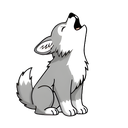
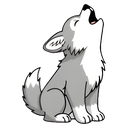
Pasha's cut-out cleaned; a Siberian aurora (painted in build/sky.py) behind him on the wallpaper and boot screen
Claude-Session: https://claude.ai/code/session_011dUntRk9LS7esAHpf3oNhr

Changed region(s): [[0.125, 0.0312, 0.8438, 0.9688]]

diff --git a/build/sky.py b/build/sky.py
@@ -1,0 +1,147 @@
+"""Iskra's night sky: a Siberian aurora over mountains, taiga and a still lake, painted from
+noise (no source image), at any size. Used by make-branding.py (wallpaper) and
+make-grub-theme.py (boot screen).   sky(2880, 1920) -> PIL RGB image;  ground_y(w, h) -> y
+"""
+import numpy as np
+from PIL import Image, ImageFilter
+
+
+def _noise1d(n, scale, rnd, octaves=5):
+    """Smooth 1-D fractal noise of length n, roughly in -1..1."""
+    out = np.zeros(n)
+    amp, total = 1.0, 0.0
+    for o in range(octaves):
+        k = max(2, int(n / scale * 2 ** o) + 2)
+        pts = rnd.uniform(-1, 1, k)
+        out += amp * np.interp(np.linspace(0, k - 1, n), np.arange(k), pts)
+        total += amp
+        amp *= 0.5
+    return out / total
+
+
+def _blur(a, r):
+    img = Image.fromarray(np.clip(a * 255, 0, 255).astype('uint8'))
+    return np.asarray(img.filter(ImageFilter.GaussianBlur(r))).astype(float) / 255
+
+
+def horizon(h):
+    return int(h * 0.74)
+
+
+def ground_y(w, h):
+    """Where the meadow is, for standing things on."""
+    return int(h * 0.90)
+
+
+def sky(w=2880, h=1920, seed=1999):
+    rnd = np.random.default_rng(seed)
+    hz = horizon(h)
+    y = np.linspace(0, 1, h)[:, None]
+    x = np.linspace(0, 1, w)[None, :]
+
+    # the sky: deep night blue at the top, violet low down
+    top, mid, low = np.array([6, 8, 24]), np.array([22, 18, 58]), np.array([70, 40, 110])
+    t = np.clip(y / (hz / h), 0, 1)
+    col = top * (1 - t) ** 2 + mid * 2 * t * (1 - t) + low * t ** 2
+    img = np.broadcast_to(col[:, None, :] if col.ndim == 2 else col, (h, w, 3)).astype(float).copy()
+    img = img.reshape(h, w, 3) if img.shape != (h, w, 3) else img
+
+    # stars, a few bright ones with a soft glow
+    stars = np.zeros((h, w))
+    n = int(w * h / 1400)
+    sx, sy = rnd.integers(0, w, n), rnd.integers(0, hz, n)
+    stars[sy, sx] = rnd.uniform(0.25, 1.0, n) ** 2
+    big = rnd.choice(n, n // 40, replace=False)
+    glow = np.zeros((h, w)); glow[sy[big], sx[big]] = 1.0
+    stars = np.clip(stars + _blur(glow, 3) * 6, 0, 1) * (1 - y * 0.6)
+    img += stars[..., None] * np.array([235, 235, 255])
+
+    # the aurora: a great curtain sweeping down from the top across to the right, a fainter one
+    # low on the left; bright green at its lower edge, fading to violet at the top, in fine rays
+    aur_g, aur_p = np.zeros((h, w)), np.zeros((h, w))
+    xs = np.arange(w)
+    rows = np.arange(h)[:, None]
+    for (x0, y0, x1, y1, height, bright, sc) in ((0.18, -0.05, 1.05, 0.60, 0.42, 1.25, 1.0),
+                                                 (-0.05, 0.50, 0.40, 0.36, 0.20, 0.55, 0.6)):
+        u = np.clip((xs / w - x0) / (x1 - x0), 0, 1)
+        edge = (y0 + (y1 - y0) * (u ** 0.8)) * h                # the lower edge, a falling diagonal
+        edge += (0.035 * np.sin(u * 19 + sc) + 0.02 * _noise1d(w, w / 6, rnd)) * h   # folds
+        inside = ((xs / w) > x0) & ((xs / w) < x1)
+        taper = np.sin(np.clip(u, 0, 1) * np.pi) ** 0.5 * inside
+        rays = np.clip(0.5 + 0.9 * _noise1d(w, w / 160, rnd, 3), 0, 1) ** 1.5
+        rays = 0.35 + 0.65 * rays
+        d = (edge[None, :] - rows) / (height * h)               # 0 at the edge, 1 at the top
+        under = np.exp(-np.clip(-d, 0, None) * 30)
+        curtain = np.where(d >= 0, np.exp(-d * 1.6), under) * (rays * taper * bright)[None, :]
+        aur_g += curtain * np.exp(-np.clip(d, 0, None) * 2.6)
+        aur_p += curtain * np.clip(d * 1.6, 0, 1) * np.exp(-np.clip(d - 0.5, 0, None) * 1.6)
+    g = np.clip(aur_g, 0, 1.4)
+    aur_g = _blur(g / 1.4, 1.5) * 1.4 * 0.9 + _blur(g / 1.4, 30) * 1.4 * 0.22
+    aur_p = _blur(np.clip(aur_p, 0, 1), 3) * 0.75 + _blur(np.clip(aur_p, 0, 1), 60) * 0.3
+    core = np.clip(aur_g - 0.75, 0, None)                         # the hottest edge goes pale
+    sky_mask = (np.arange(h) < hz)[:, None]
+    img += sky_mask[..., None] * (aur_g[..., None] * np.array([30, 235, 150])
+                                  + core[..., None] * np.array([120, 160, 120])
+                                  + aur_p[..., None] * np.array([150, 50, 210]))
+    # a pink glow along the horizon
+    img += sky_mask[..., None] * (np.exp(-((rows - hz) / (0.07 * h)) ** 2)[..., None]
+                                  * np.array([60, 20, 60]))
+
+    # the lake: the sky above, flipped, darker and rippled
+    lake_top, lake_bot = hz, int(h * 0.84)
+    rows = np.arange(lake_top, lake_bot)
+    src = np.clip(hz - 1 - (rows - hz) * 3, 0, hz - 1)       # a long, foreshortened reflection
+    ripple = (np.sin(rows[:, None] * 1.7 + _noise1d(w, w / 40, rnd)[None, :] * 6) * 3).astype(int)
+    srcx = np.clip(xs[None, :] + ripple, 0, w - 1)
+    img[lake_top:lake_bot] = img[src[:, None], srcx] * 0.7 + np.array([4, 12, 22])
+
+    # mountains: a far range of sharp peaks, hazy violet, and a nearer, darker one
+    def ridge(level, rough, sc):
+        r = 1 - np.abs(_noise1d(w, w / sc, rnd, 6))            # ridged noise: sharp peaks
+        return (level - rough * r ** 2.5) * h
+    for level, rough, sc, c, a in ((0.735, 0.13, 2.2, (44, 34, 84), 0.80), (0.74, 0.07, 3.5, (18, 18, 38), 0.92)):
+        r = ridge(level, rough, sc)
+        m = (np.arange(h)[:, None] > r[None, :]) & (np.arange(h)[:, None] < hz + 4)
+        img[m] = img[m] * (1 - a) + np.array(c) * a
+
+    # the taiga: a band of spruce along the far shore and on the near bank
+    def spruces(base_y, hmin, hmax, count, c):
+        nonlocal img
+        layer = np.zeros((h, w))
+        for _ in range(count):
+            cx = rnd.uniform(0, w); th = rnd.uniform(hmin, hmax) * h; tw = th * 0.28
+            by = base_y + rnd.uniform(-0.004, 0.004) * h
+            y0, y1 = int(by - th), int(by)
+            if y1 <= 0: continue
+            yy = np.arange(max(0, y0), min(h, y1 + 1))
+            half = (yy - y0) / th * tw / 2
+            for row, hw in zip(yy, half):
+                layer[row, max(0, int(cx - hw)):min(w, int(cx + hw) + 1)] = 1
+        layer = _blur(layer, 0.7)
+        img = img * (1 - layer[..., None]) + np.array(c) * layer[..., None]
+    spruces(hz + 2, 0.010, 0.030, 900, (8, 12, 18))
+
+    # the near meadow: dark green, lit faintly by the aurora, rising gently to the left
+    gy = ground_y(w, h)
+    bank = (0.845 - 0.05 * (1 - x[0]) ** 2 + 0.006 * _noise1d(w, w / 8, rnd)) * h
+    m = np.arange(h)[:, None] > bank[None, :]
+    shade = np.clip((np.arange(h)[:, None] - bank[None, :]) / (h * 0.16), 0, 1)
+    meadow = np.array([18, 52, 40]) * (1 - shade[..., None]) + np.array([5, 14, 12]) * shade[..., None]
+    img[m] = meadow[m]
+
+    # grass: fine blades, catching a little green light along the top of the bank
+    blades = rnd.uniform(0, 1, (h, w)) ** 6
+    blades = _blur(blades, 0.6)
+    tex = np.asarray(Image.fromarray(np.clip(blades * 255, 0, 255).astype('uint8'))
+                     .resize((w, h // 3)).resize((w, h))).astype(float) / 255
+    rim = np.exp(-np.clip(np.arange(h)[:, None] - bank[None, :], 0, None) / (0.012 * h)) * m
+    img += (m * tex * 40)[..., None] * np.array([0.3, 1.0, 0.6]) + rim[..., None] * np.array([10, 45, 30])
+
+    # a soft vignette
+    v = 1 - 0.35 * (((x - 0.5) * 1.6) ** 2 + ((y - 0.45) * 1.4) ** 2)
+    img *= np.clip(v, 0.55, 1)[..., None]
+    return Image.fromarray(np.clip(img, 0, 255).astype('uint8'), 'RGB')
+
+
+if __name__ == '__main__':
+    sky(1440, 960).save('/tmp/iskra-sky.png')

diff --git a/build/make-grub-theme.py b/build/make-grub-theme.py
@@ -4,14 +4,15 @@
                                               pieces and its fonts (.pf2, with Cyrillic)
 The installer copies it to /boot/grub/themes/iskra.
 
-The screen: Паша the wolf pup (branding/pasha.png) on the left, howling, in a red glow against a starry night,
-ИСКРА and the menu on the right. Drawn for the 13 Pro's 3:2 panel
+The screen: Паша the wolf pup (branding/pasha.png) on a meadow, howling at a Siberian aurora
+(build/sky.py), ИСКРА and the menu on a dark glass panel on the right. Drawn for the 13 Pro's 3:2 panel
 (2880 x 1920); GRUB crops it to other shapes.
-Needs Pillow and grub-mkfont (grub's tools):  python3 build/make-grub-theme.py
+Needs Pillow, NumPy and grub-mkfont (grub's tools):  python3 build/make-grub-theme.py
 """
-import math, random, subprocess
+import subprocess
 from pathlib import Path
 from PIL import Image, ImageDraw, ImageFilter, ImageFont
+from sky import sky
 
 ROOT = Path(__file__).resolve().parents[1]
 OUT = ROOT / 'desktop/root/usr/share/iskra/grub-theme'
@@ -22,57 +23,40 @@ SANS = '/usr/share/fonts/truetype/dejavu/DejaVuSans.ttf'
 BOLD = '/usr/share/fonts/truetype/dejavu/DejaVuSans-Bold.ttf'
 
 
-def star(d, cx, cy, r, fill, points=5, inner=0.42):
-    pts = []
-    for i in range(points * 2):
-        a = -math.pi / 2 + i * math.pi / points
-        rr = r if i % 2 == 0 else r * inner
-        pts.append((cx + rr * math.cos(a), cy + rr * math.sin(a)))
-    d.polygon(pts, fill=fill)
-
-
 def background():
-    img = Image.new('RGB', (W, H), BG)
-    # a deep red glow behind Pasha, fading to the background
-    glow = Image.new('L', (W, H), 0)
-    gd = ImageDraw.Draw(glow)
-    cx, cy = 860, 1010
-    for r in range(1100, 0, -20):
-        gd.ellipse((cx - r, cy - r * 0.9, cx + r, cy + r * 0.9), fill=int(255 * (1 - r / 1100) ** 1.6))
-    img = Image.composite(Image.new('RGB', (W, H), DARKRED), img, glow.filter(ImageFilter.GaussianBlur(60)))
-    # the night sky: a scatter of faint stars for him to howl at
+    img = sky(W, H).convert('RGBA')
+    # Pasha on the meadow, howling up at the aurora
+    p = Image.open(ROOT / 'branding/pasha.png').convert('RGBA')
+    p = p.crop(p.getchannel('A').getbbox())
+    ph = 980
+    p = p.resize((int(p.width * ph / p.height), ph), Image.LANCZOS)
+    feet = 1760
+    shadow = Image.new('RGBA', (W, H), (0, 0, 0, 0))
+    ImageDraw.Draw(shadow).ellipse((760 - 330, feet - 40, 760 + 330, feet + 40), fill=(0, 0, 0, 140))
+    img.alpha_composite(shadow.filter(ImageFilter.GaussianBlur(18)))
+    img.alpha_composite(p, (760 - p.width // 2, feet - ph))
+    # a dark glass panel for the name and the menu, so they read against the sky
+    panel = Image.new('RGBA', (W, H), (0, 0, 0, 0))
+    ImageDraw.Draw(panel).rounded_rectangle((1500, 470, 2790, 1790), radius=48, fill=(8, 8, 20, 150))
+    img.alpha_composite(panel.filter(ImageFilter.GaussianBlur(2)))
     d = ImageDraw.Draw(img)
-    rnd = random.Random(1999)
-    for _ in range(420):
-        x, y = rnd.randrange(W), rnd.randrange(H)
-        v = rnd.randrange(40, 95)
-        s = rnd.choice((1, 1, 1, 2, 2, 3))
-        d.ellipse((x, y, x + s, y + s), fill=(v, v, v + 6))
-    # Pasha, the wolf pup, howling up at the stars (his picture has a see-through background)
-    pasha = Image.open(ROOT / 'branding/pasha.png').convert('RGBA')
-    pasha = pasha.crop(pasha.getchannel('A').getbbox())
-    scale = 1150 / pasha.height
-    pasha = pasha.resize((int(pasha.width * scale), 1150), Image.LANCZOS)
-    img.paste(pasha, (cx - pasha.width // 2, cy - pasha.height // 2 + 40), pasha)
-    # ИСКРА, the name, and a red rule under them
-    d = ImageDraw.Draw(img)
-    title = ImageFont.truetype(BOLD, 230)
-    x0, y0 = 1560, 250
+    title = ImageFont.truetype(BOLD, 190)
+    x0, y0 = 1580, 520
     x = x0
     for ch in 'ИСКРА':
-        d.text((x, y0), ch, font=title, fill=RED)
-        x += d.textlength(ch, font=title) + 34
-    sub = ImageFont.truetype(SANS, 64)
-    d.text((x0 + 6, y0 + 290), 'Iskra  ·  built on Slackware', font=sub, fill=GREY)
-    d.rectangle((x0 + 6, y0 + 400, x0 + 1180, y0 + 406), fill=RED)
-    return img
+        d.text((x, y0), ch, font=title, fill=WHITE)
+        x += d.textlength(ch, font=title) + 30
+    sub = ImageFont.truetype(SANS, 56)
+    d.text((x0 + 6, y0 + 230), 'Iskra  ·  built on Slackware', font=sub, fill=(190, 200, 215))
+    d.rectangle((x0 + 6, y0 + 320, x0 + 1110, y0 + 325), fill=RED)
+    return img.convert('RGB')
 
 
 def highlight():
-    # the selected menu line: a translucent red band with a solid red bar at its left edge
-    Image.new('RGBA', (8, 8), (213, 43, 30, 70)).save(OUT / 'select_c.png')
+    # the selected menu line: a translucent white band with a solid red bar at its left edge
+    Image.new('RGBA', (8, 8), (255, 255, 255, 40)).save(OUT / 'select_c.png')
     Image.new('RGBA', (12, 8), (213, 43, 30, 255)).save(OUT / 'select_w.png')
-    Image.new('RGBA', (8, 8), (213, 43, 30, 70)).save(OUT / 'select_e.png')
+    Image.new('RGBA', (8, 8), (255, 255, 255, 40)).save(OUT / 'select_e.png')
 
 
 def fonts():
@@ -86,7 +70,7 @@ THEME = '''# Iskra's GRUB theme (made by build/make-grub-theme.py)
 title-text: ""
 desktop-image: "background.png"
 desktop-image-scale-method: "crop"
-desktop-color: "#0c0c10"
+desktop-color: "#0a0a1c"
 terminal-font: "DejaVu Sans Regular 32"
 
 + boot_menu {
@@ -96,7 +80,7 @@ terminal-font: "DejaVu Sans Regular 32"
 	height = 40%
 	item_font = "DejaVu Sans Regular 44"
 	selected_item_font = "DejaVu Sans Bold 44"
-	item_color = "#9696a0"
+	item_color = "#b4bccc"
 	selected_item_color = "#ececf0"
 	item_height = 76
 	item_padding = 28
@@ -114,7 +98,7 @@ terminal-font: "DejaVu Sans Regular 32"
 	align = "left"
 	id = "__timeout__"
 	text = "Starting in %d s  ·  ↑ ↓ choose  ·  Enter starts  ·  e edits"
-	color = "#9696a0"
+	color = "#b4bccc"
 	font = "DejaVu Sans Regular 32"
 }
 '''

diff --git a/build/make-branding.py b/build/make-branding.py
@@ -5,14 +5,15 @@
   branding/pasha-512/-256/-128.png                the same, kept under Pasha's name
   desktop/root/usr/share/iskra/iskra-logo.png     the logo, for the system
   desktop/root/usr/share/pixmaps/iskra.png        256 px icon
-  desktop/root/usr/share/iskra/iskra-wallpaper.png Pasha and the name on the background
+  desktop/root/usr/share/iskra/iskra-wallpaper.png Pasha howling at the aurora (build/sky.py)
   desktop/root/usr/share/iskra/fastfetch/pasha.txt fastfetch's logo, made from the neofetch logo
                                                   branding/pasha-fastfetch-original.txt
-Needs Pillow:  python3 build/make-branding.py
+Needs Pillow and NumPy:  python3 build/make-branding.py
 """
 import json, re
 from pathlib import Path
-from PIL import Image, ImageDraw, ImageFont
+from PIL import Image, ImageDraw, ImageFilter, ImageFont
+import sys; sys.path.insert(0, str(Path(__file__).parent)); from sky import sky
 
 ROOT = Path(__file__).resolve().parents[1]
 B, SHARE = ROOT / 'branding', ROOT / 'desktop/root/usr/share'
@@ -69,13 +70,12 @@ def main():
     big.resize((512, 512), Image.LANCZOS).save(SHARE / 'iskra/iskra-logo.png', optimize=True)
     big.resize((256, 256), Image.LANCZOS).save(SHARE / 'pixmaps/iskra.png', optimize=True)
 
-    wall = Image.new('RGBA', (2880, 1920), BACKGROUND + (255,))
-    p = logo(900)
-    wall.paste(p, ((wall.width - 900) // 2, 260), p)
-    d = ImageDraw.Draw(wall)
-    font = ImageFont.truetype(FONT, 120)
-    word = ' '.join('ИСКРА')                                    # spaced out, poster style
-    d.text(((wall.width - d.textlength(word, font=font)) / 2, 1240), word, font=font, fill=RED)
+    wall = sky(2880, 1920).convert('RGBA')                      # Pasha howling at the aurora
+    p = logo(760)
+    shadow = Image.new('RGBA', wall.size, (0, 0, 0, 0))
+    ImageDraw.Draw(shadow).ellipse((800 - 260, 1795 - 30, 800 + 260, 1795 + 30), fill=(0, 0, 0, 140))
+    wall.alpha_composite(shadow.filter(ImageFilter.GaussianBlur(16)))
+    wall.alpha_composite(p, (420, 1800 - 760 + 30))
     wall.convert('RGB').save(SHARE / 'iskra/iskra-wallpaper.png', optimize=True)
 
     text, colours = fastfetch()
